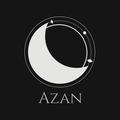
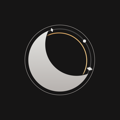
UI and branding updates
- Remove ! prefix from app name in manifest and app.html
- Replace all app icons with Azanapp.png (home screen) and azanfavicon.png (favicon)
- Move source images to static/images/
- Center prayer list lines using CSS grid (equal columns, no fixed pixel widths)
- Increase all-times-stage min-height to prevent Isha row clipping
- Format countdown as zero-padded 00hr 00m 00s with tabular-nums to prevent layout shift
- Hide unused hr/min units in countdown when zero

Changed region(s): [[0.2, 0.125, 0.8, 0.875]]

diff --git a/src/lib/components/BreathDesign.svelte b/src/lib/components/BreathDesign.svelte
@@ -469,9 +469,12 @@
 
 
   function formatCountdown(cd) {
-    if (cd.hours > 0) return `${cd.hours}h ${cd.minutes}m`;
-    if (cd.minutes > 0) return `${cd.minutes}m ${cd.seconds}s`;
-    return `${cd.seconds}s`;
+    const h = String(cd.hours).padStart(2, '0');
+    const m = String(cd.minutes).padStart(2, '0');
+    const s = String(Math.max(0, cd.seconds)).padStart(2, '0');
+    if (cd.hours > 0) return `${h}hr ${m}m ${s}s`;
+    if (cd.minutes > 0) return `${m}m ${s}s`;
+    return `${s}s`;
   }
 
   function formatTime(date) {
@@ -2010,6 +2013,8 @@
     font-weight: 200;
     color: rgba(var(--theme-accent-rgb), 0.8);
     letter-spacing: 0.1em;
+    font-variant-numeric: tabular-nums;
+    white-space: nowrap;
   }
 
   /* Next prayer */
@@ -2050,7 +2055,7 @@
     max-width: min(320px, 85vw);
     margin-left: auto;
     margin-right: auto;
-    min-height: clamp(11.2rem, 22vh, 14rem);
+    min-height: clamp(15rem, 30vh, 18rem);
     position: relative;
     overflow: hidden;
   }
@@ -2065,9 +2070,10 @@
   }
 
   .time-row {
-    display: flex;
+    display: grid;
+    grid-template-columns: 1fr 1.5fr 1fr;
     align-items: center;
-    gap: 0.5rem;
+    gap: 0.75rem;
   }
 
   .time-name {
@@ -2077,12 +2083,11 @@
     color: rgba(var(--theme-text-rgb), 0.55);
     text-transform: uppercase;
     letter-spacing: 0.08em;
-    width: 80px;
-    flex-shrink: 0;
+    text-align: right;
+    white-space: nowrap;
   }
 
   .time-dots {
-    flex: 1;
     height: 1px;
     background: linear-gradient(90deg,
       rgba(var(--theme-text-rgb), 0.1) 0%,
@@ -2098,9 +2103,8 @@
     font-weight: 300;
     color: rgba(var(--theme-text-rgb), 0.7);
     font-variant-numeric: tabular-nums;
-    text-align: right;
+    text-align: left;
     white-space: nowrap;
-    flex-shrink: 0;
   }
 
   .time-row.active .time-name {
@@ -2759,7 +2763,7 @@
     .all-times-stage {
       margin-top: 1.5rem;
       margin-bottom: 2.5rem;
-      min-height: 10.4rem;
+      min-height: 13rem;
     }
 
     .all-times {
@@ -2794,7 +2798,7 @@
   @media (max-height: 600px) {
     .all-times-stage {
       margin-top: 1rem;
-      min-height: 9.4rem;
+      min-height: 11rem;
     }
 
     .all-times {

diff --git a/src/app.html b/src/app.html
@@ -12,7 +12,7 @@
     <link rel="preconnect" href="https://fonts.googleapis.com" />
     <link rel="preconnect" href="https://fonts.gstatic.com" crossorigin />
     <link href="https://fonts.googleapis.com/css2?family=Amiri:wght@400;700&family=Inter:wght@300;400;500;600;700&display=swap" rel="stylesheet" />
-    <title>!Azan</title>
+    <title>Azan</title>
     %sveltekit.head%
   </head>
   <body data-sveltekit-preload-data="hover">
